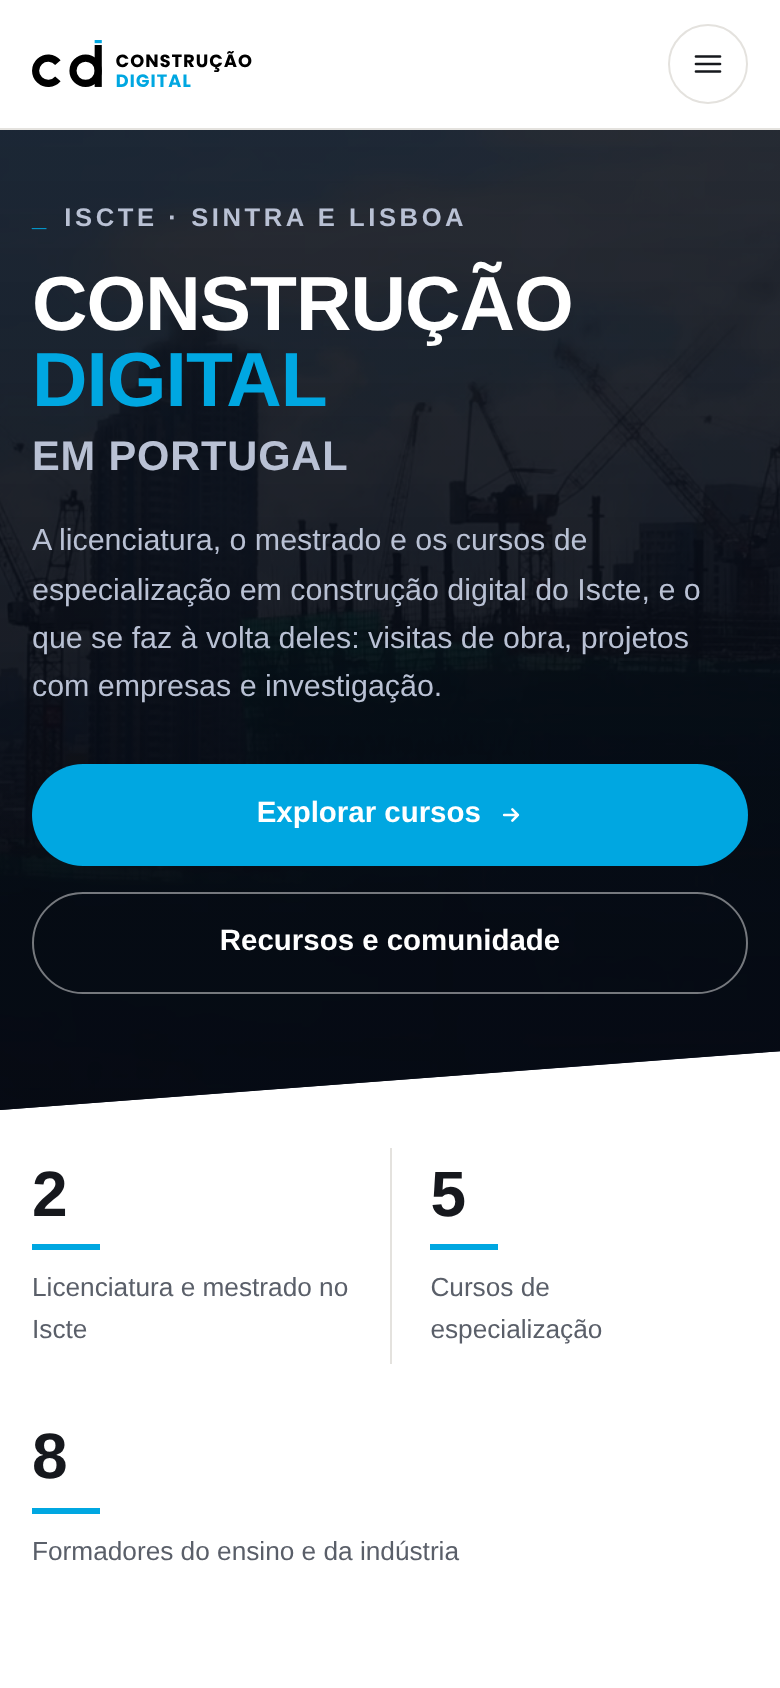
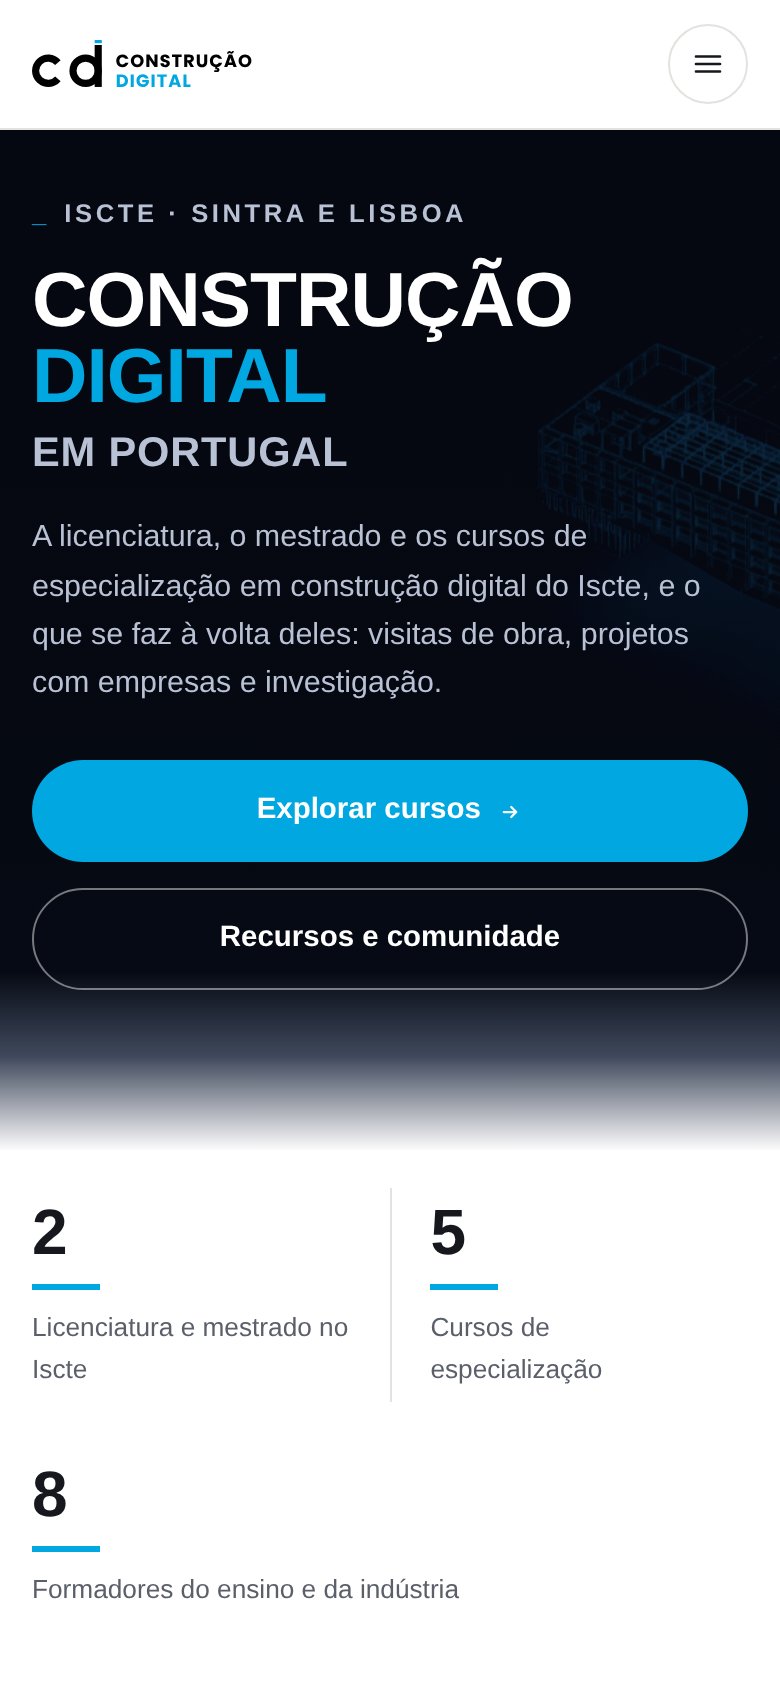
Volta o corte na diagonal entre o topo e os números
Fora o esbatimento vertical. O topo volta a acabar no corte inclinado.

Claude-Session: https://claude.ai/code/session_01Co6nHqUHrwGTWwpJGR2PDN

diff --git a/assets/css/style.css b/assets/css/style.css
@@ -1407,8 +1407,6 @@ p {
 
 
 
-
-
 /* ---------- Rodapé ---------- */
 
 .site-footer {
@@ -2547,34 +2545,6 @@ p {
 
 .hero-video-fundo {
   background: var(--hero-bg);
-  clip-path: none;
-  padding-bottom: clamp(5rem, 10vw, 8rem);
-}
-
-/* Passagem suave do topo para a faixa de números */
-.hero-video-fundo::after {
-  content: '';
-  position: absolute;
-  left: 0;
-  right: 0;
-  bottom: -1px;
-  height: 52%;
-  pointer-events: none;
-  background:
-    linear-gradient(
-      180deg,
-      rgba(6, 10, 20, 0) 0%,
-      rgba(6, 10, 20, 0.12) 18%,
-      rgba(6, 10, 20, 0.34) 34%,
-      rgba(6, 10, 20, 0.62) 50%,
-      rgba(6, 10, 20, 0.85) 66%,
-      rgba(70, 80, 100, 0.9) 82%,
-      var(--bg) 100%
-    );
-}
-
-.stats-band {
-  margin-top: -1px;
 }
 
 .hero-video {
@@ -2617,7 +2587,7 @@ p {
   }
 
   .hero-video-fundo {
-    background-image: url('../img/destaque-obra.jpg');
+    background-image: url('../img/destaque-modelo.jpg');
     background-size: cover;
     background-position: center;
   }
